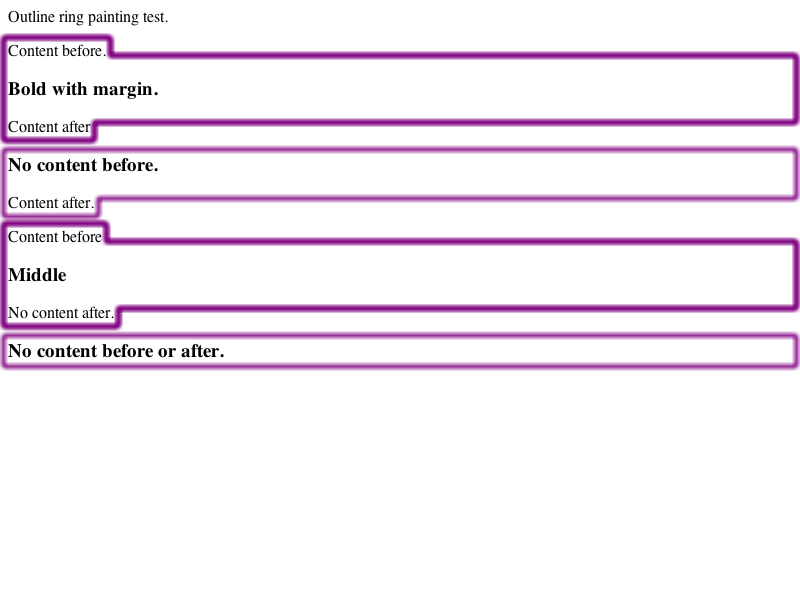
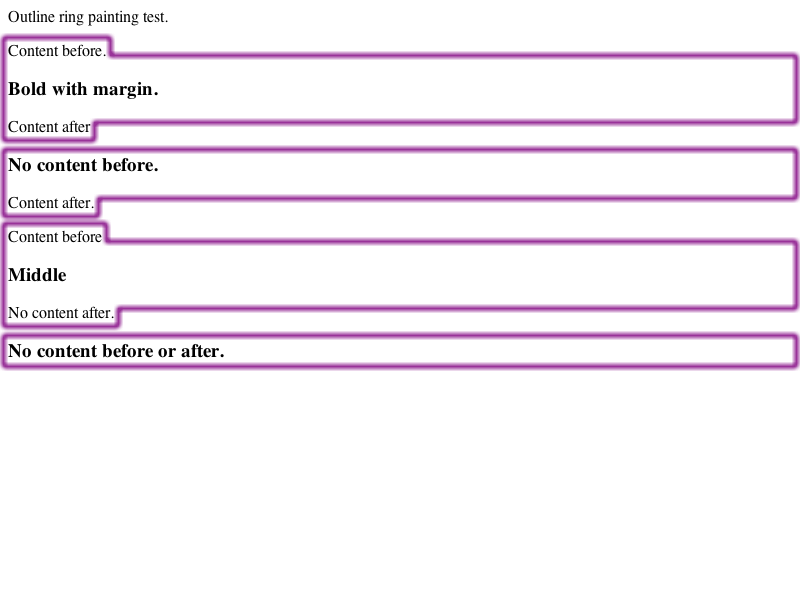
Land new layout tests for continuation repainting fix.
git-svn-id: https://svn.webkit.org/repository/webkit/trunk@21396 268f45cc-cd09-0410-ab3c-d52691b4dbfc

Changed region(s): [[0.0, 0.36, 1.0, 0.57], [0.0, 0.03, 1.0, 0.24]]

diff --git a/LayoutTests/fast/inline/continuation-outlines-with-layers.html b/LayoutTests/fast/inline/continuation-outlines-with-layers.html
@@ -1,0 +1,19 @@
+<html>
+<head>
+<style>
+span { outline: 10px auto purple; position:relative }
+</style>
+</head>
+<body>
+<p>Outline ring painting test.</p>
+
+<p><span>Content before.
+<h3>Bold with margin.</h3>
+Content after</span></p>
+
+<p><span><h3>No content before.</h3>Content after.</span></p>
+
+<p><span>Content before<h3>Middle</h3>No content after.</span></p>
+
+<p><span><h3>No content before or after.</h3></span></p>
+
